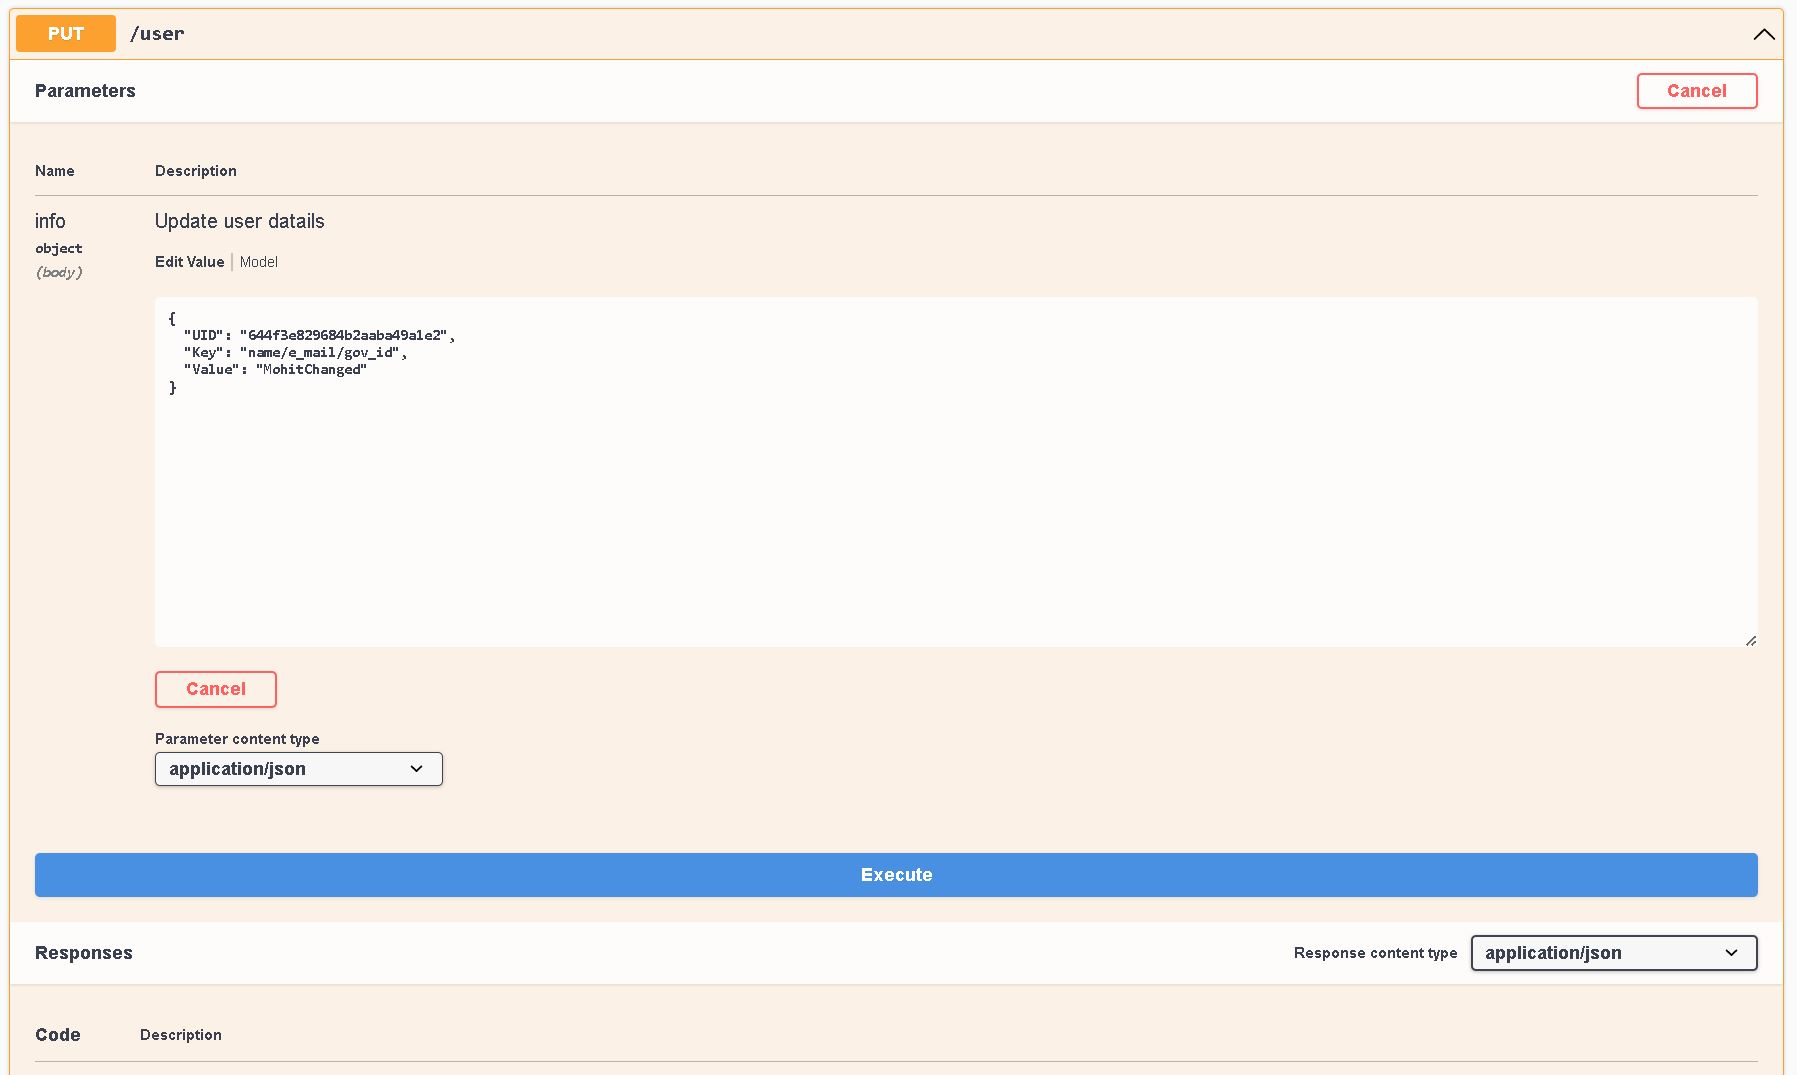
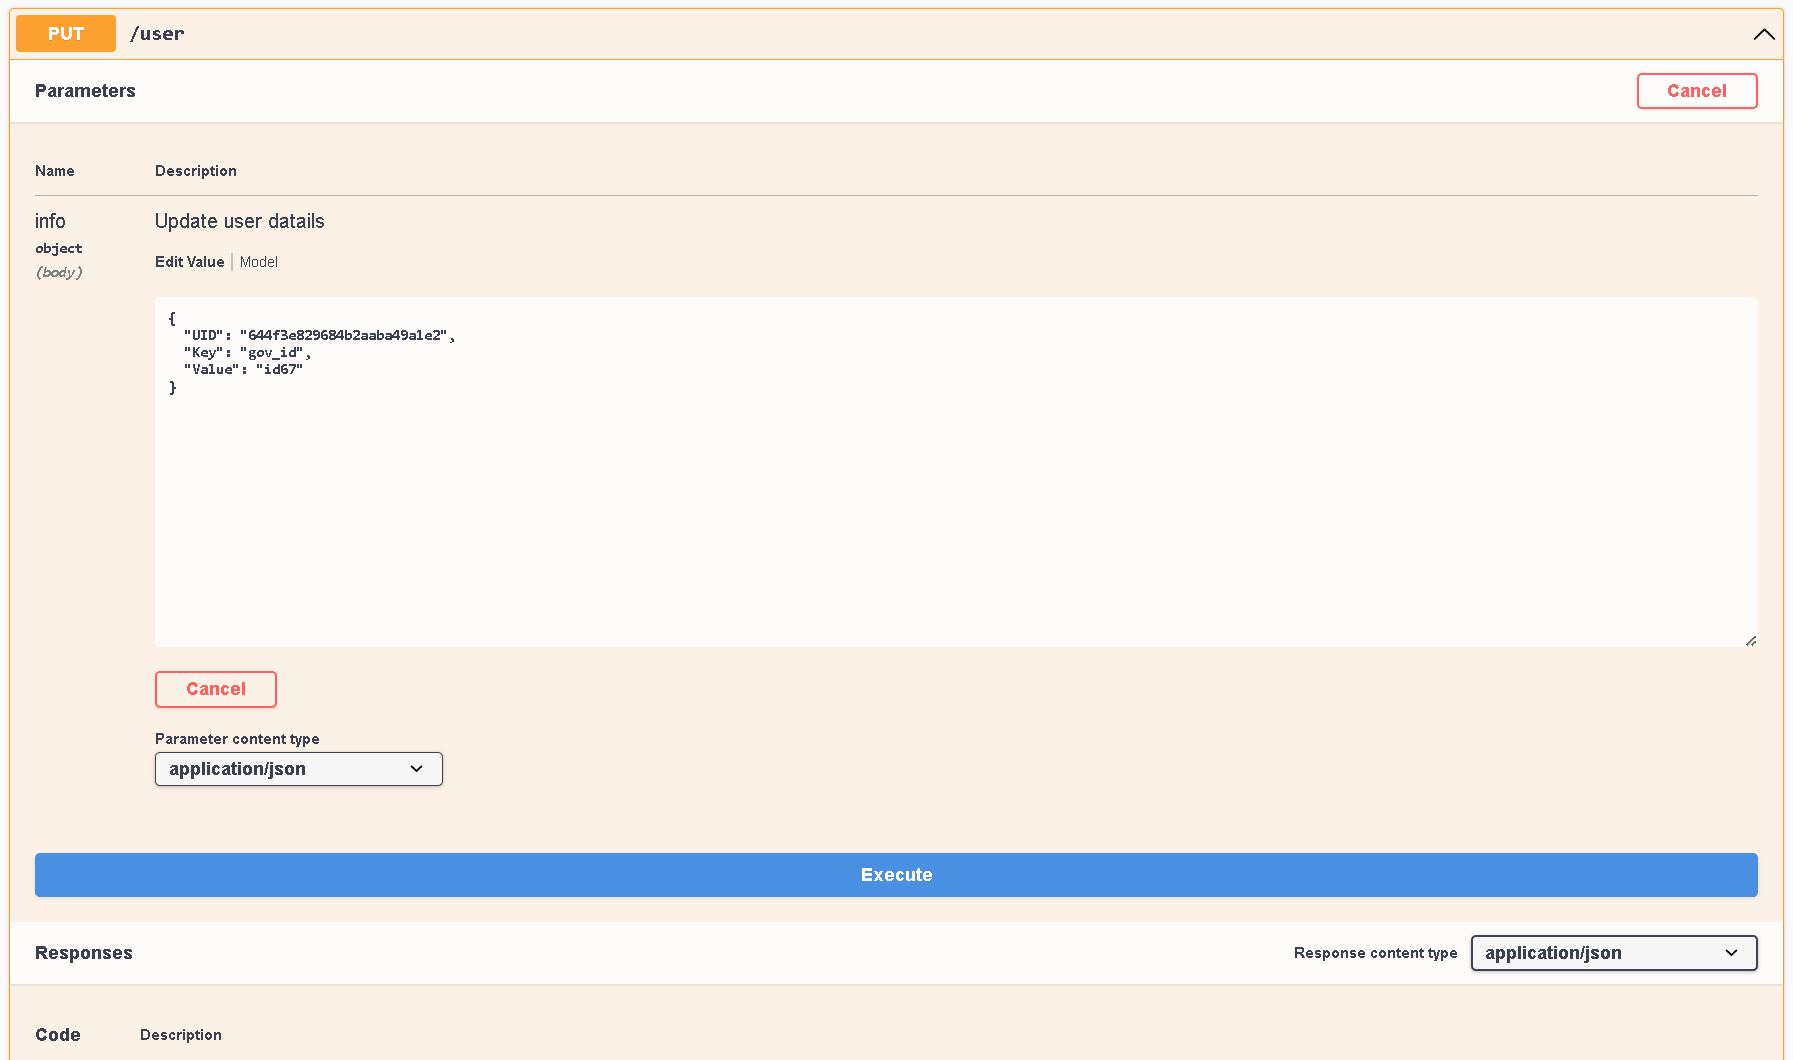
refactor: updated README

diff --git a/README.md b/README.md
@@ -91,7 +91,7 @@ Here are a few examples to demonstrate how to use the Customer-manager APIs:
 
 ![POST-bet](./Images/POST-bet.JPG)
 
-3.Place a new bet.
+3.Update user details.
 
 ![PUT-user](./Images/PUT-user.JPG)
 
@@ -101,4 +101,4 @@ Here are a few examples to demonstrate how to use the Customer-manager APIs:
 
 ## Error Handling
 
-When an error occurs, the Lottery APIs return appropriate HTTP status codes along with error messages in the response body. Make sure to handle these errors gracefully in your application.
+When an error occurs, the Customer-manager APIs return appropriate HTTP status codes along with error messages in the response body. Make sure to handle these errors gracefully in your application.
